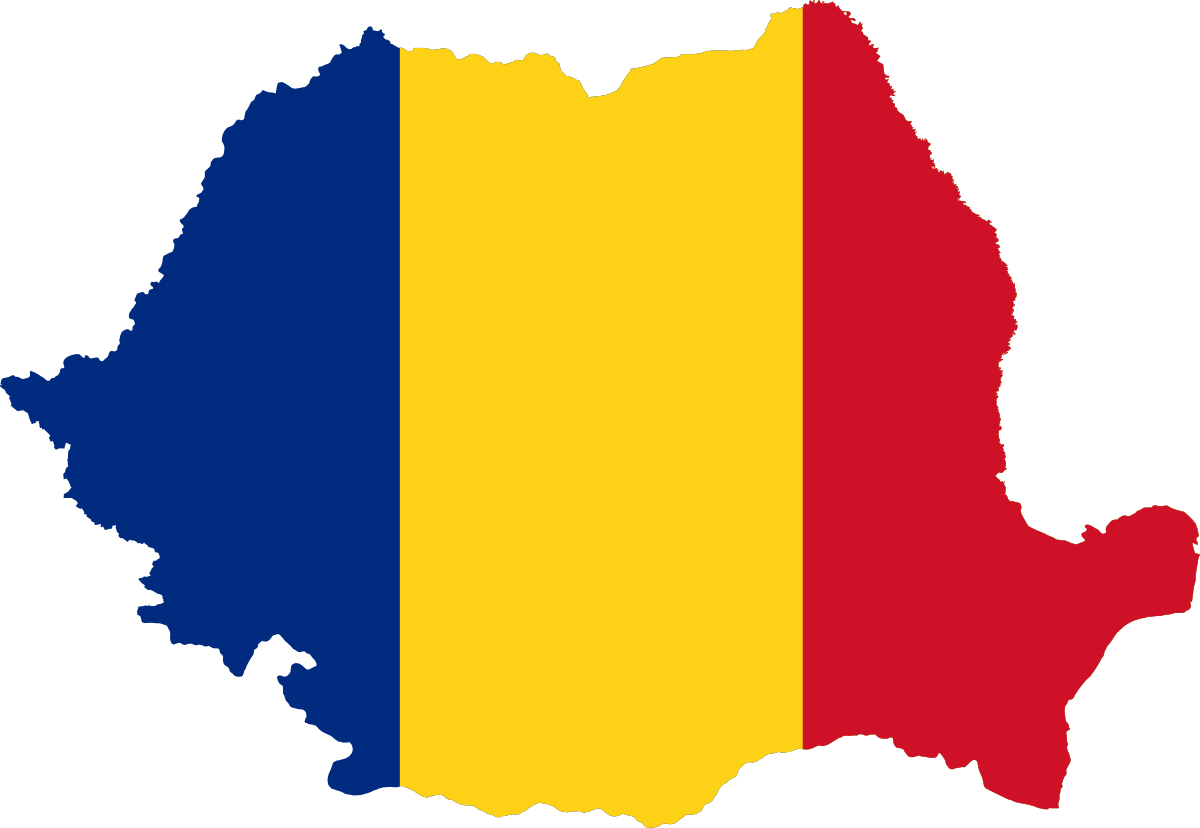
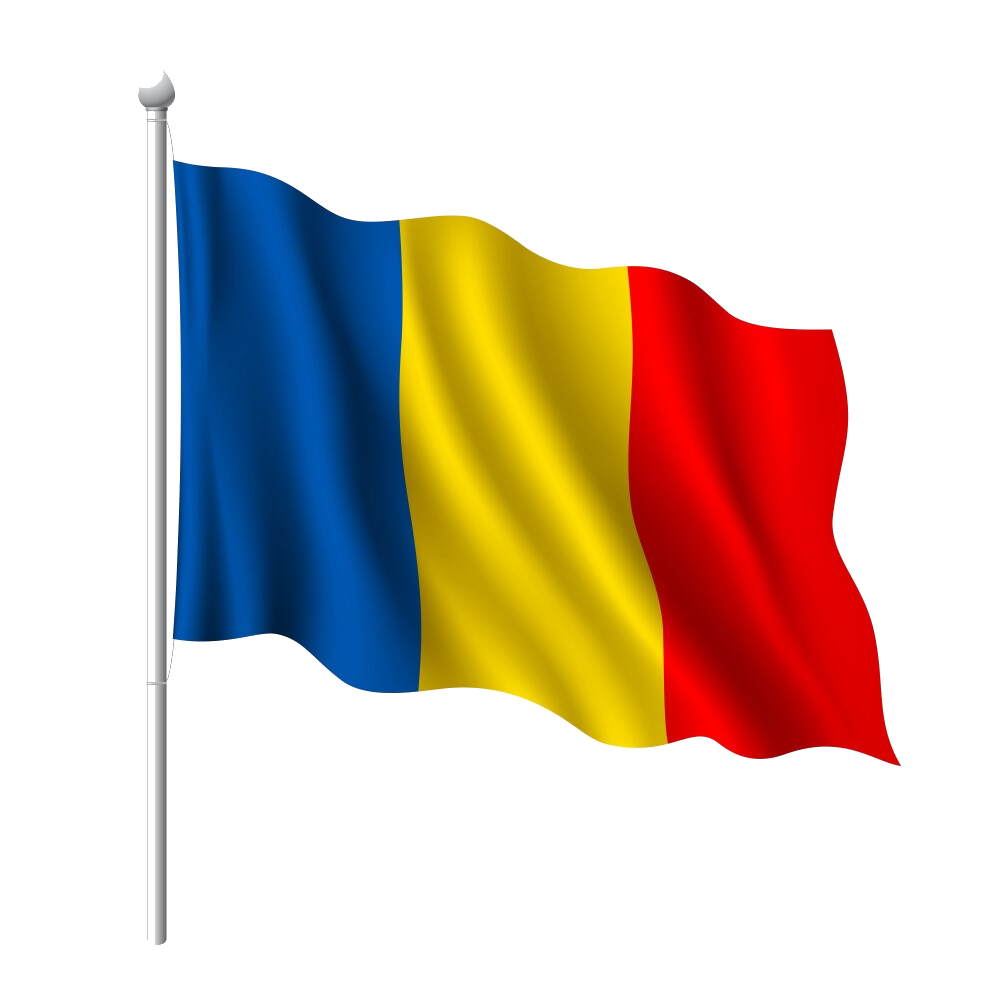
fix: flag

diff --git a/src/Components/InvestmentSection.jsx b/src/Components/InvestmentSection.jsx
@@ -1,6 +1,6 @@
 import content from "../../content.json";
 import bg from "../assets/1.jpeg";
-import Flag from "../assets/Flag.png";
+import Flag from "../assets/roman.png";
 
 const InvestmentSection = () => {
   return (
@@ -14,7 +14,7 @@ const InvestmentSection = () => {
       }}
     >
       {/* Overlay */}
-      <div className="absolute inset-0 bg-gradient-to-br from-[#1e3a8a] to-[#02094d] opacity-75"></div>
+      <div className="absolute inset-0 bg-gradient-to-br from-[#1e3a8a] to-[#02094d] opacity-65"></div>
 
       {/* Content */}
       <div className="relative w-full max-w-[1320px] mx-auto py-10 px-4 sm:px-6 lg:py-20">
@@ -30,7 +30,7 @@ const InvestmentSection = () => {
                 {content.whyInvestDescription}
               </p>
             </div>
-            <div className=" w-[400px]">
+            <div className="hidden lg:block w-[400px]">
               <img className="w-full" src={Flag} />
             </div>
           </div>
